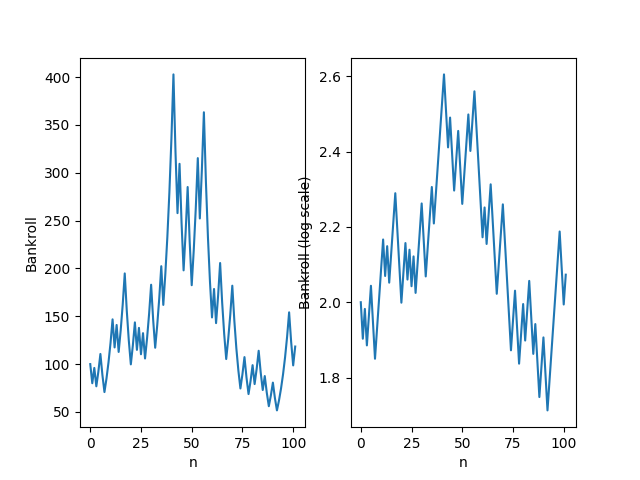
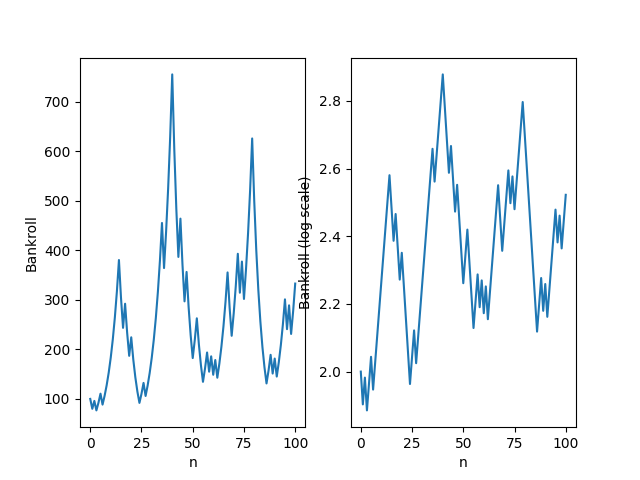
feat: multiple rounds of play and plot

diff --git a/gambling.py b/gambling.py
@@ -5,20 +5,20 @@ import matplotlib.pyplot as plt
 
 from game_class import GambleGame
 
+# Parameters
+
 # Initial Bankroll
 bankroll = 100
-bankroll_list = [bankroll]
 
 # Probability
-p = 0.6
+p = 0.3
 q = 1 - p
 
 # Increase factor
-b = 1
+b = 2
 
 #  Number of rounds to play
-num_rounds = 0
-num_list = [num_rounds]
+num_rounds = 100
 
 info = {
     "id": 0,
@@ -28,6 +28,7 @@ info = {
 }
 
 
+# Gamble
 def gamble_function(money_in_bet, info):
     if random.random() < info["p"]:
         return (1 + info["b"]) * money_in_bet
@@ -40,44 +41,30 @@ def decision_function(history_data, info):
 
 
 def ending_condition_function(history_data, info):
-    return len(history_data) > 100 or (len(history_data)!=0 and history_data[-1][3] <= 0)
+    return len(history_data) > num_rounds or (len(history_data) != 0 and history_data[-1][3] <= 0)
 
 
 game = GambleGame(bankroll, decision_function, gamble_function, ending_condition_function, info)
 
-game.play()
+
+bankroll_history_of_different_games = []
+
+for i in range(20):
+    game.replay()
+
+    bankroll_list = [x[0] for x in game.history_data]
+    num_list = [x for x in range(len(bankroll_list))]
+
+    if len(bankroll_list) < num_rounds:
+        bankroll_list += [bankroll_list[-1]] * (num_rounds - len(bankroll_list))
+    bankroll_history_of_different_games.append(bankroll_list)
 
 
-# while num_rounds <= 100 and bankroll > 0:
-#     # Kelly's criterion
-#     proportion = p + (p - 1) / b
-#     # Bet size
-#     Y0 = proportion * bankroll
-#
-#     if random.random() < p:  # Win
-#         Y1 = (1 + b) * Y0
-#     else:  # Lose
-#         Y1 = 0
-#
-#     bankroll = bankroll - Y0 + Y1
-#     num_rounds += 1
-#     num_list.append(num_rounds)
-#     bankroll_list.append(bankroll)
-#
-# plt.title("Simulation of Kelly Criterion")
+x = [x for x in range(len(bankroll_history_of_different_games[-1]))]
 
-# get the data from the game object, get the first element of the tuple
-bankroll_list = [x[0] for x in game.history_data]
-num_list = [x for x in range(len(bankroll_list))]
+fig, ax = plt.subplots()
 
+for i in range(len(bankroll_history_of_different_games)):
+    ax.plot(x, numpy.log10(bankroll_history_of_different_games[i]), label='Data ' + str(i))
 
-plt.subplot(1, 2, 1)
-plt.plot(num_list, bankroll_list)
-plt.xlabel("n")
-plt.ylabel("Bankroll")
-
-plt.subplot(1, 2, 2)
-plt.plot(num_list, numpy.log10(bankroll_list))
-plt.xlabel("n")
-plt.ylabel("Bankroll (log scale)")
-plt.savefig("figure.png")
+plt.savefig("figure2.png")

diff --git a/game_class.py b/game_class.py
@@ -42,11 +42,24 @@ class GambleGame:
         self.current_money = money_after_bet
         return round_result
 
-    def play(self):
-        print("Game start!")
+    def play(self, debug_info=False):
+        if debug_info:
+            print("Game start!")
         while not self.ending_condition_function(self.history_data, self.info):
             round_result = self.play_one_round()
-            print("== round %d ==" % len(self.history_data))
-            print("Round result: ", round_result)
-            print("Current money: ", self.current_money)
-        print("Game end!")
+            if debug_info:
+                print("== round %d ==" % len(self.history_data))
+                print("Round result: ", round_result)
+                print("Current money: ", self.current_money)
+        if debug_info:
+            print("Game end!")
+        return self.history_data
+
+    def clear(self):
+        self.current_money = self.initial_money
+        self.history_data = []
+
+    def replay(self, debug_info=False):
+        self.clear()
+        self.play(debug_info)
+        return self.history_data
